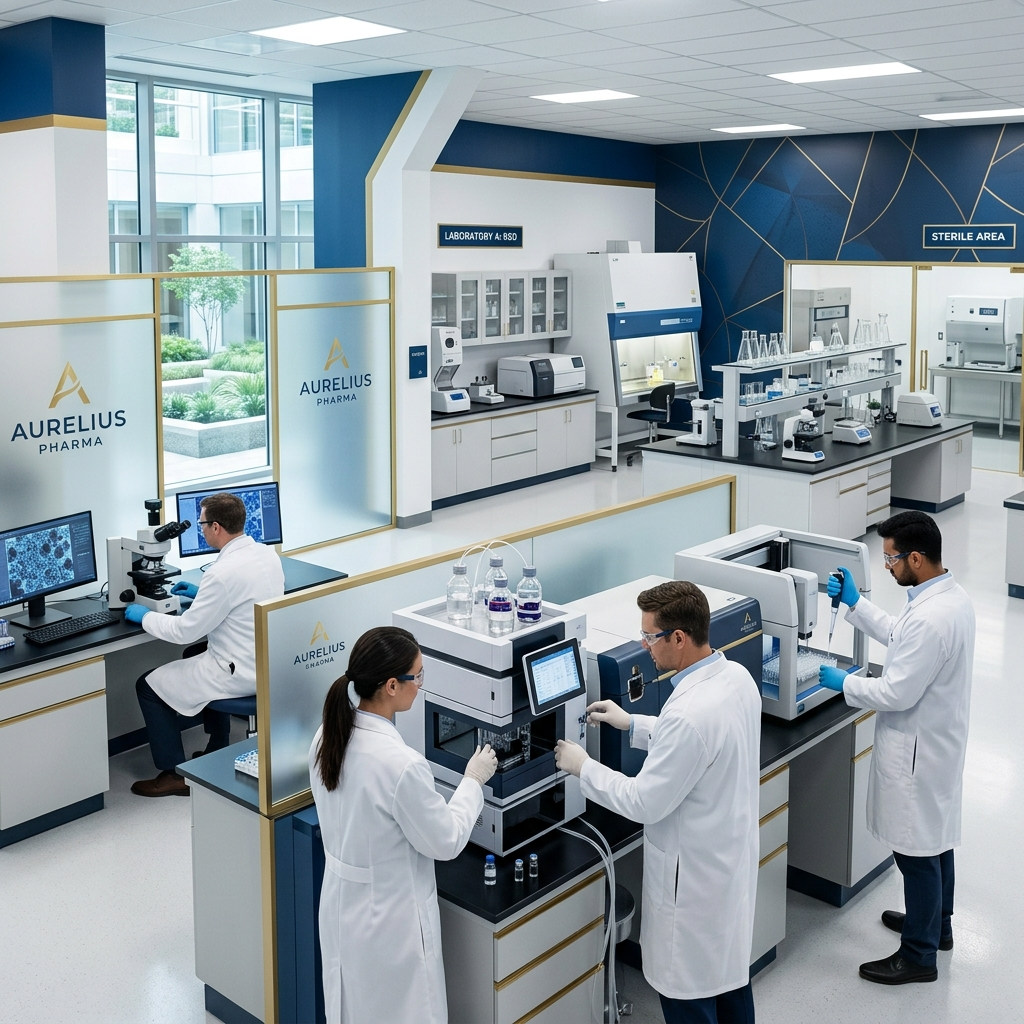
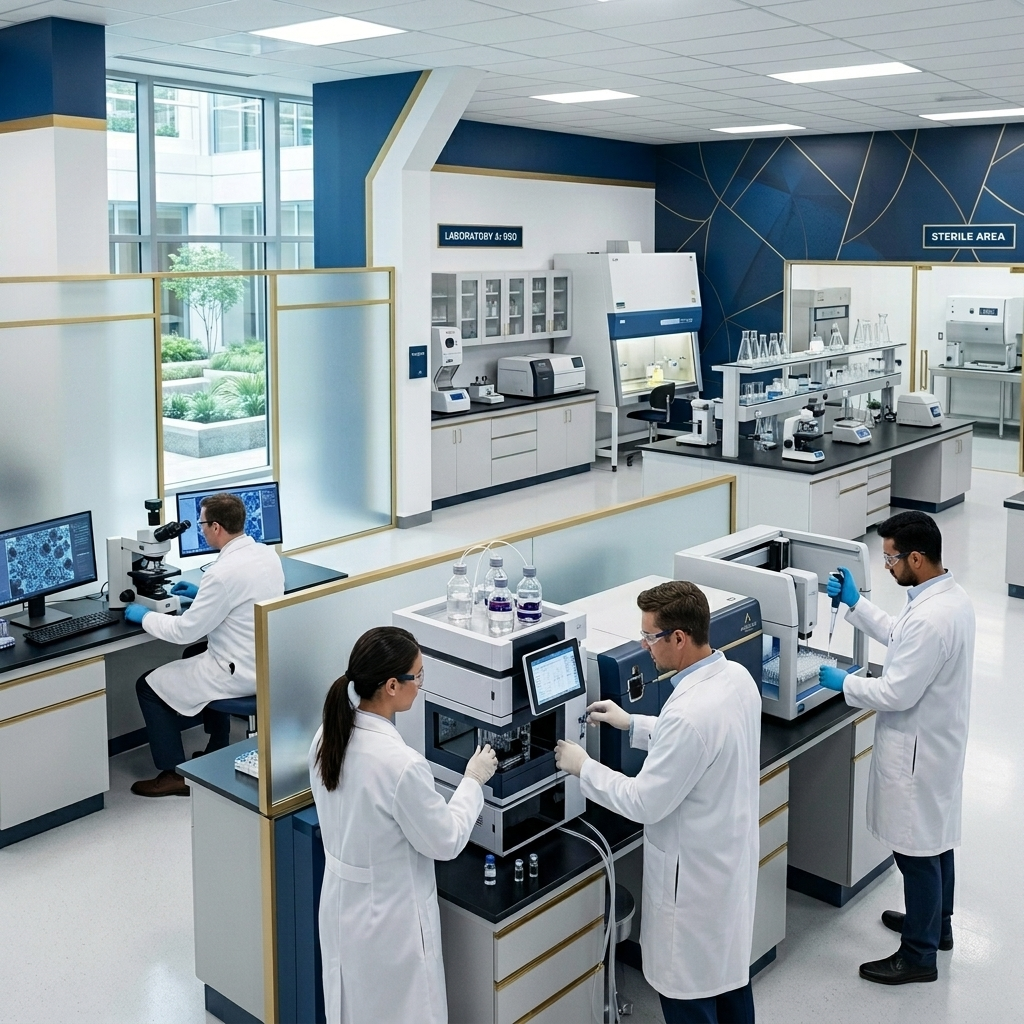
fix: resolve duplicate product IDs, spelling of Garcinia, move gummy images to public, and remove branding from laboratory image

diff --git a/src/pages/Products.jsx b/src/pages/Products.jsx
@@ -32,19 +32,105 @@ const productsData = [
   { id: 6, name: "Sterile Water for Injection", category: "Sterile Injectable Range", image: "/sterile-injections.png", type: "injection", packSize: "10ml / 20ml Ampoules", spec: "USP Grade", description: "Sterile, nonpyrogenic, solute-free preparation of distilled water for injection. Used only as a sterile solvent for reconstitution." },
 
   // Gummies
-  { id: 7, name: "Vitamin C Gummies", category: "Gummies", image: "/kids_multivitamin.jpg", type: "gummy", flavor: "Orange", packSize: "60 Gummies Bottle", spec: "FDA / GMP Compliant", description: "Premium Vitamin C gummies formulated to boost daily immunity. Made with organic pectin and natural orange extract." },
-  { id: 8, name: "Multivitamin Gummies", category: "Gummies", image: "/adult%20multivitamin.jpg", type: "gummy", flavor: "Mixed Berry", packSize: "60 Gummies Bottle", spec: "GMP Certified", description: "A balanced blend of 12 essential vitamins and minerals supporting daily vitality, immune system health, and overall wellness." },
-  { id: 9, name: "Sleep Support Gummies", category: "Gummies", image: "/melatonin.jpg", type: "gummy", flavor: "Strawberry-Lavender", packSize: "30 Gummies Bottle", spec: "Nutraceutical Grade", description: "Formulated with Melatonin, L-Theanine, and Chamomile extract to promote a peaceful night's rest and regulate sleep cycles." },
-  { id: 10, name: "Apple Cider Vinegar Gummies", category: "Gummies", image: "/collagen.jpg", type: "gummy", flavor: "Apple", packSize: "60 Gummies Bottle", spec: "Pectin Based", description: "All the benefits of apple cider vinegar with mother, compressed into delicious, easy-to-consume pectin-based wellness gummies." },
+  { id: 7, name: "Multivitamin Gummies", category: "Gummies", image: "/adult%20multivitamin.jpg", type: "gummy", flavor: "Mixed Berry", packSize: "60 Gummies Bottle", spec: "GMP Certified", description: "A balanced blend of 12 essential vitamins and minerals supporting daily vitality, immune system health, and overall wellness." },
+  { id: 8, name: "Sleep Support Gummies", category: "Gummies", image: "/melatonin.jpg", type: "gummy", flavor: "Strawberry-Lavender", packSize: "30 Gummies Bottle", spec: "Nutraceutical Grade", description: "Formulated with Melatonin, L-Theanine, and Chamomile extract to promote a peaceful night's rest and regulate sleep cycles." },
+{
+  id: 11,
+  name: "Omega Gummies",
+  category: "Gummies",
+  image: "/omega.jpeg",
+  type: "gummy",
+  flavor: "Coffee",
+  packSize: "30 Gummies Bottle",
+  spec: "Brain & Memory Support",
+  description:
+    "Premium Omega gummies formulated to support brain function, memory enhancement, and eye health with a delicious coffee flavor."
+},
 
+{
+  id: 12,
+  name: "Magnesium Gummies",
+  category: "Gummies",
+  image: "/magnesium.jpeg",
+  type: "gummy",
+  flavor: "Mixed Berry",
+  packSize: "30 Gummies Bottle",
+  spec: "Muscle & Nerve Support",
+  description:
+    "Advanced magnesium gummies designed to support muscle recovery, nerve function, relaxation, and overall body wellness."
+},
+
+{
+  id: 13,
+  name: "Glutathione Gummies",
+  category: "Gummies",
+  image: "/glutathione.jpeg",
+  type: "gummy",
+  flavor: "Blueberry",
+  packSize: "30 Gummies Bottle",
+  spec: "Skin Radiance Formula",
+  description:
+    "Powerful antioxidant gummies enriched with Glutathione to support skin radiance, detoxification, and healthy glowing skin."
+},
+
+{
+  id: 14,
+  name: "Garcinia Cambogia Gummies",
+  category: "Gummies",
+  image: "/carcinia.jpeg",
+  type: "gummy",
+  flavor: "Strawberry",
+  packSize: "30 Gummies Bottle",
+  spec: "Weight Management Support",
+  description:
+    "Specially formulated Garcinia Cambogia gummies that help support metabolism, appetite management, and healthy weight goals."
+},
+
+{
+  id: 15,
+  name: "Apple Cider Vinegar Gummies",
+  category: "Gummies",
+  image: "/apple-cider.jpeg",
+  type: "gummy",
+  flavor: "Apple",
+  packSize: "30 Gummies Bottle",
+  spec: "Digestive Wellness",
+  description:
+    "Delicious apple cider vinegar gummies designed to support digestion, metabolism, gut health, and daily wellness naturally."
+},
+
+{
+  id: 16,
+  name: "Shilajit Stamina Gummies",
+  category: "Gummies",
+  image: "/shilajit.jpeg",
+  type: "gummy",
+  flavor: "Dark Chocolate",
+  packSize: "30 Gummies Bottle",
+  spec: "Strength & Vitality",
+  description:
+    "Premium Shilajit gummies crafted to support stamina, strength, energy levels, and overall vitality for active lifestyles."
+},
+
+{
+  id: 17,
+  name: "Vitamin C Gummies",
+  category: "Gummies",
+  image: "/vitamin-c.jpeg",
+  type: "gummy",
+  flavor: "Orange",
+  packSize: "30 Gummies Bottle",
+  spec: "Immunity & Antioxidant Support",
+  description:
+    "Vitamin C gummies enriched with antioxidant properties to help strengthen immunity, support skin health, and daily wellness."
+},
   // Wellness Supplements
-  { id: 11, name: "Premium Omega-3 Softgels", category: "Wellness Supplements", image: "/gummies.png", type: "gummy", packSize: "60 Softgels", spec: "Fish Oil Concentrate", description: "High-potency EPA & DHA formula supporting cardiovascular, brain, joint, and eye wellness." },
-
+ 
   // Export Products
-  { id: 12, name: "Beta-Lactam Dry Powder", category: "Export Products", image: "/sterile-injections.png", type: "injection", packSize: "Bulk Exporters Pack", spec: "WHO-GMP Verified", description: "Premium bulk antibiotics prepared and packaged specifically to maintain maximum shelf life during international shipping." }
+  { id: 18, name: "Beta-Lactam Dry Powder", category: "Export Products", image: "/sterile-injections.png", type: "injection", packSize: "Bulk Exporters Pack", spec: "WHO-GMP Verified", description: "Premium bulk antibiotics prepared and packaged specifically to maintain maximum shelf life during international shipping." }
 ];
 
-const featuredProducts = productsData.filter(p => p.id === 1 || p.id === 2 || p.id === 7 || p.id === 8 || p.id === 9);
+const featuredProducts = productsData.filter(p => [1, 2, 7, 8, 11, 13, 16].includes(p.id));
 
 const Products = () => {
   const [activeCategory, setActiveCategory] = useState("All");

diff --git a/src/pages/Blog.jsx b/src/pages/Blog.jsx
@@ -8,8 +8,8 @@ const blogPosts = [
     id: 1,
     title: "The Future of Pharmaceutical Exports: Navigating Global Regulations",
     category: "Pharmaceutical Exports",
-    date: "Oct 15, 2023",
-    author: "Dr. Ananya Sharma",
+    // date: "Oct 15, 2023",
+    // author: "Dr. Ananya Sharma",
     image: "/world-map.png",
     excerpt: "Exploring the complexities of international trade in pharmaceuticals and how companies can ensure compliance with evolving global standards."
   },
@@ -17,26 +17,26 @@ const blogPosts = [
     id: 2,
     title: "Innovations in Sterile Injectable Manufacturing",
     category: "Injectable Manufacturing",
-    date: "Sep 28, 2023",
-    author: "Rajeev Menon",
+    // date: "Sep 28, 2023",
+    // author: "Rajeev Menon",
     image: "/sterile-injections.png",
     excerpt: "A deep dive into the latest technologies and cleanroom standards driving the future of sterile injectable production."
   },
-  {
-    id: 3,
-    title: "The Rise of Wellness Gummies: A Market Analysis",
-    category: "Gummies & Wellness Trends",
-    date: "Sep 12, 2023",
-    author: "Priya Desai",
-    image: "/gummies.png",
-    excerpt: "Why vitamin and supplement gummies are dominating the wellness market and what consumers are looking for."
-  },
+  // {
+  //   id: 3,
+  //   title: "The Rise of Wellness Gummies: A Market Analysis",
+  //   category: "Gummies & Wellness Trends",
+  //   date: "Sep 12, 2023",
+  //   author: "Priya Desai",
+  //   image: "/gummies.png",
+  //   excerpt: "Why vitamin and supplement gummies are dominating the wellness market and what consumers are looking for."
+  // },
   {
     id: 4,
     title: "Ensuring Quality in Third-Party Pharmaceutical Manufacturing",
     category: "Global Healthcare",
-    date: "Aug 30, 2023",
-    author: "Dr. Vikram Patel",
+    // date: "Aug 30, 2023",
+    // author: "Dr. Vikram Patel",
     image: "/laboratory.png",
     excerpt: "Key considerations and quality assurance protocols when partnering with a contract manufacturer for your pharma brand."
   },
@@ -44,8 +44,8 @@ const blogPosts = [
     id: 5,
     title: "Advancing Global Healthcare Through Accessible Antibiotics",
     category: "Healthcare Innovation",
-    date: "Aug 15, 2023",
-    author: "Elena Rodriguez",
+    // date: "Aug 15, 2023",
+    // author: "Elena Rodriguez",
     image: "/sterile-injections.png",
     excerpt: "How bulk manufacturing and efficient export chains are helping address the global demand for essential antibiotics."
   },
@@ -53,8 +53,8 @@ const blogPosts = [
     id: 6,
     title: "Building a State-of-the-Art WHO-GMP Facility",
     category: "Injectable Manufacturing",
-    date: "Jul 22, 2023",
-    author: "Rajeev Menon",
+    // date: "Jul 22, 2023",
+    // author: "Rajeev Menon",
     image: "/manufacturing.png",
     excerpt: "An inside look at the architectural and operational requirements for establishing a globally certified pharmaceutical plant."
   }
